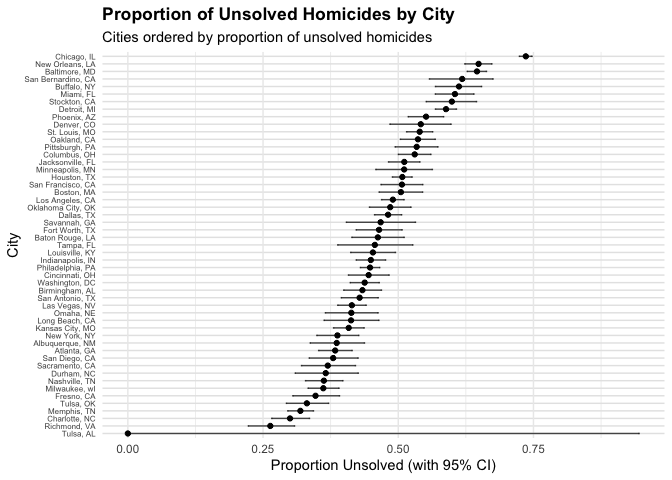
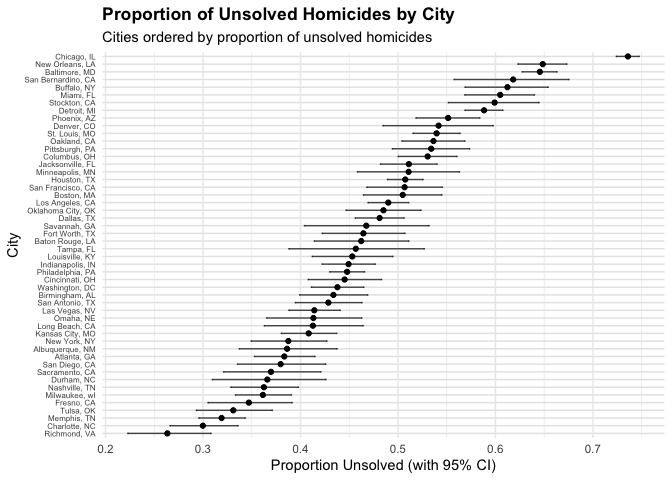
Remove incorrect entry: Tulsa, AL

Changed region(s): [[0.0312, 0.0938, 1.0, 0.9688], [0.9062, 0.0938, 0.9688, 0.125]]

diff --git a/p8105_hw5_fx2212.md b/p8105_hw5_fx2212.md
@@ -143,7 +143,7 @@ power_plot
 
 Association between effect size and power: There is a strong positive
 relationship between effect size (true μ) and power. As the true mean
-increases from 0 to 6, power increases from approximately 0.05 to 1.
+increases from 0 to 6, power increases from approximately 0.057 to 1.
 This makes sense because larger effect sizes are easier to detect with
 statistical tests.
 
@@ -184,7 +184,8 @@ tend to overestimate the true effect size.
 homicide_data = read_csv("homicide-data.csv") |> 
   mutate(
     city_state = str_c(city, ", ", state)
-  )
+  ) |> 
+  filter(city_state != "Tulsa, AL")
 ```
 
     ## Rows: 52179 Columns: 12
@@ -195,6 +196,9 @@ homicide_data = read_csv("homicide-data.csv") |>
     ## 
     ## ℹ Use `spec()` to retrieve the full column specification for this data.
     ## ℹ Specify the column types or set `show_col_types = FALSE` to quiet this message.
+
+Remove incorrect entry: Tulsa, AL (Tulsa is actually in Oklahoma, not
+Alabama), thus this data may not valid.
 
 ### Summarize homicide data
 
@@ -210,8 +214,8 @@ homicide_summary = homicide_data |>
 Data description: The raw homicide data contains information about
 homicides in 50 large U.S. cities, including details about victims,
 locations, and case dispositions. After creating the `city_state`
-variable and summarizing, we have data on 51 cities with total homicides
-ranging from 1 to 5535.
+variable and summarizing, we have data on 50 cities with total homicides
+ranging from 208 to 5535.
 
 # Baltimore analysis
 
@@ -249,12 +253,6 @@ all_cities_test =
   select(city_state, total_homicides, unsolved_homicides, 
          estimate, conf.low, conf.high)
 ```
-
-    ## Warning: There was 1 warning in `mutate()`.
-    ## ℹ In argument: `test_results = map2(unsolved_homicides, total_homicides,
-    ##   run_prop_test)`.
-    ## Caused by warning in `prop.test()`:
-    ## ! Chi-squared approximation may be incorrect
 
 ### Create plot
 
